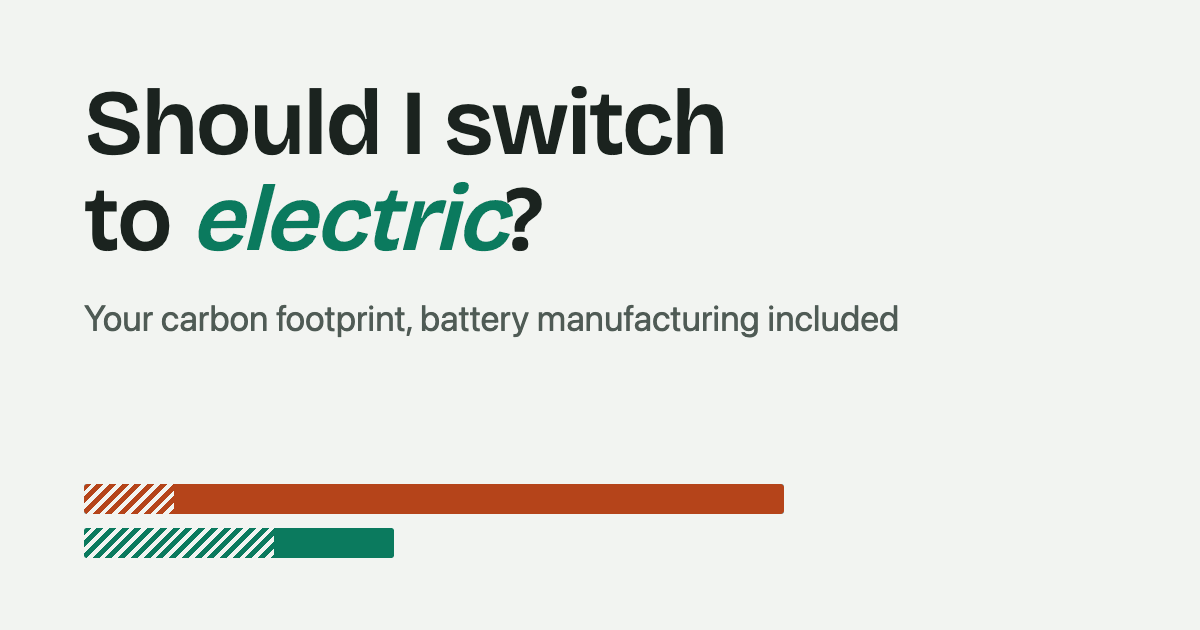
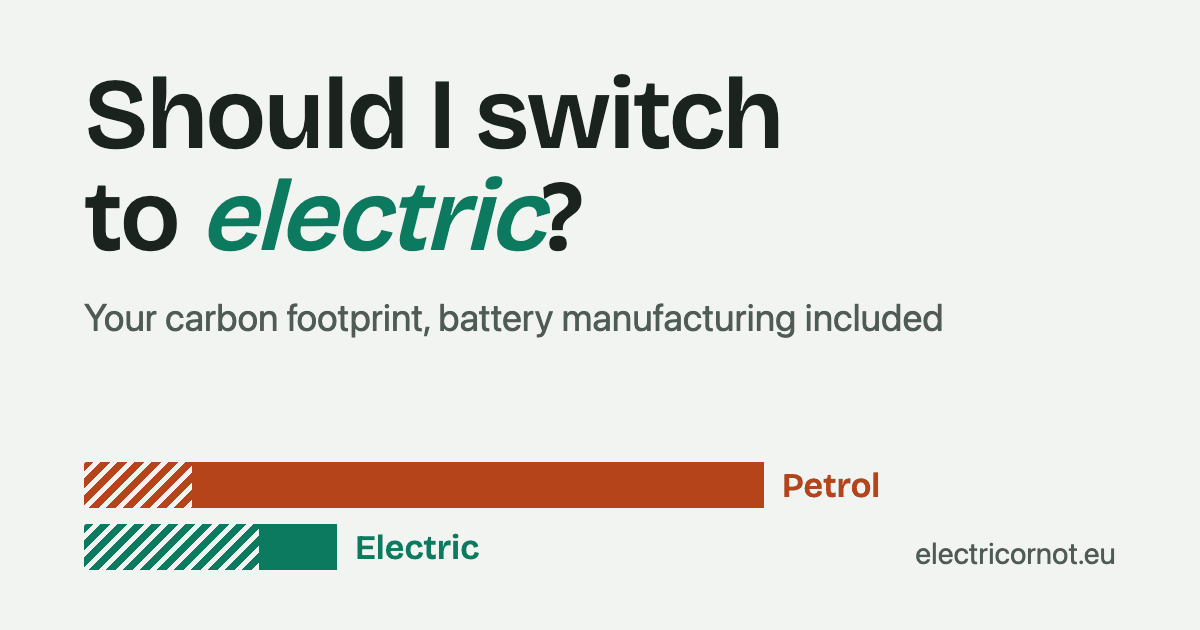
feat: aperçus de partage lisibles en vignette (barres étiquetées, domaine) ; renvois Hn et [n] cliquables sur la page Questions

diff --git a/src/App.jsx b/src/App.jsx
@@ -1142,16 +1142,23 @@ function PageApropos() {
   );
 }
 
+// « [8, 14] » → « [8, 14] » dont chaque numéro mène à sa source sur la page Méthode (/fr/methode/#src-8)
+function lierSources(texte, nomSource, lang) {
+  return texte.split(/\[([\d, ]+)\]/).map((morceau, i) => i % 2 === 0 ? morceau : ["[", ...morceau.split(", ").flatMap((n, j) => [
+    j > 0 && ", ", <a key={n} href={`${chemin(lang, "methode")}#src-${n}`} aria-label={`${nomSource} ${n}`}>{n}</a>]), "]"]);
+}
+
 // Questions-réponses (ticket 05) : chiffres recalculés par le modèle dans src/reponses.test.js ;
-// renvois Hn [n] en texte, comme la page Méthode (pas de liens : DOM minimal)
+// renvois Hn et [n] en liens vers la page Méthode (≈ 30 liens : la page reste en EcoIndex A)
 function PageQuestions() {
-  const { s } = useT();
+  const { s, lang } = useT();
+  const lier = (r) => lierSources(r, s.source, lang).flatMap((m) => typeof m === "string" ? lierHyp(m, s.prefixeHyp, lang) : [m]);
   return (
     <article className="carte lecture">
       <RetourOutil />
       <h2>{s.pages.questions}</h2>
       <p className="lede-carte">{s.questionsIntro}</p>
-      {s.questions.flatMap(([q, r]) => [<h3 key={q}>{q}</h3>, <p key={r}>{r}</p>])}
+      {s.questions.flatMap(([q, r]) => [<h3 key={q}>{q}</h3>, <p key={r}>{lier(r)}</p>])}
     </article>
   );
 }

diff --git a/src/i18n/nl.jsx b/src/i18n/nl.jsx
@@ -293,6 +293,7 @@ export default {
     { t: "Budget in gebruik", d: "Jaarlijkse kosten voor energie (huishoudprijzen per land, thuis opladen) en onderhoud (€ 0,04/km voor een nieuwe elektrische auto, ADAC-forfaits die de ICCT in 2023 overnam; € 0,07/km voor een oudere benzine- of dieselauto, herstellingen inbegrepen). De aankoopprijs van het voertuig, verzekering, belastingen en financiering worden niet meegeteld: die hangen af van de markt in elk land en van elke aankoop. De standaardprijzen vermelden hun datum en zijn aanpasbaar. Onderhoud: € 0,07/km is een voorzichtige keuze, onder het Franse gemiddelde van ongeveer € 0,09 tot € 0,11/km (uitgaven van huishoudens aan onderhoud, herstellingen en onderdelen, 41,4 miljard euro in 2024, gedeeld door de 440 miljard gereden km). Bij gelijke leeftijd kost een elektrische auto ongeveer 15% minder onderhoud (ICCT 2023: € 0,046 tegenover € 0,054/km): het getoonde verschil komt vooral van de leeftijd, en een oudere elektrische auto kost meer (banden, remmen, 12V-batterij)." },
   ],
   sourcesTitre: "Bronnen en referenties",
+  source: "Bron", // libellé accessible d'un renvoi [n] (page Questions)
   methodeMaj: (date) => `Methode bijgewerkt op ${date}.`,
   sourcesNotes: {
     2: "19,6 gCO₂e/kWh aan directe uitstoot van de productie (2025).",

diff --git a/src/i18n/es.jsx b/src/i18n/es.jsx
@@ -294,6 +294,7 @@ export default {
     { t: "Presupuesto de uso", d: "Coste anual de energía (precios domésticos por país, carga en casa) y de mantenimiento (0,04 €/km para un eléctrico nuevo, tarifas del ADAC recogidas por el ICCT en 2023; 0,07 €/km para un coche de combustión antiguo, reparaciones incluidas). No se cuentan el precio de compra del vehículo, el seguro, los impuestos ni la financiación: dependen del mercado de cada país y de cada compra. Precios por defecto fechados y modificables. Mantenimiento: 0,07 €/km es una elección prudente, por debajo de la media francesa de unos 0,09 a 0,11 €/km (gasto de los hogares en mantenimiento, reparaciones y piezas, 41.400 millones de euros en 2024, dividido entre los 440.000 millones de km recorridos). A igual edad, un eléctrico cuesta alrededor de un 15 % menos de mantener (ICCT 2023: 0,046 frente a 0,054 €/km): la diferencia mostrada se debe sobre todo a la edad, y un eléctrico más antiguo cuesta más (neumáticos, frenos, batería de 12 V)." },
   ],
   sourcesTitre: "Fuentes y referencias",
+  source: "Fuente", // libellé accessible d'un renvoi [n] (page Questions)
   methodeMaj: (date) => `Método actualizado el ${date}.`,
   sourcesNotes: {
     2: "19,6 gCO₂e/kWh en emisiones directas de producción (2025).",

diff --git a/src/i18n/fr.jsx b/src/i18n/fr.jsx
@@ -295,6 +295,7 @@ export default {
     { t: "Budget à l'usage", d: "Coût annuel d'énergie (prix domestiques par pays, recharge à domicile) et d'entretien (0,04 €/km pour une électrique neuve, forfaits ADAC repris par l'ICCT en 2023 ; 0,07 €/km pour une thermique ancienne, réparations comprises). Le prix d'achat du véhicule, l'assurance, les taxes et le financement ne sont pas comptés : ils dépendent du marché de chaque pays et de chaque achat. Prix par défaut datés et modifiables. Entretien : 0,07 €/km est un choix prudent, sous la moyenne française d'environ 0,09 à 0,11 €/km (dépenses des ménages en entretien, réparation et pièces, 41,4 milliards d'euros en 2024, rapportées aux 440 milliards de km parcourus). À âge égal, une électrique coûte environ 15 % de moins à entretenir (ICCT 2023 : 0,046 contre 0,054 €/km) : l'écart affiché vient surtout de l'âge, et une électrique plus âgée coûte davantage (pneus, freins, batterie 12 V)." },
   ],
   sourcesTitre: "Sources et références",
+  source: "Source", // libellé accessible d'un renvoi [n] (page Questions)
   methodeMaj: (date) => `Méthode mise à jour le ${date}.`,
   sourcesNotes: {
     2: "19,6 gCO₂e/kWh en émissions directes de production (2025).",

diff --git a/src/i18n/it.jsx b/src/i18n/it.jsx
@@ -297,6 +297,7 @@ export default {
     { t: "Budget d'uso", d: "Costo annuo dell'energia (prezzi domestici per paese, ricarica a casa) e della manutenzione (0,04 €/km per un'elettrica nuova, forfait ADAC ripresi dall'ICCT nel 2023; 0,07 €/km per un'auto termica datata, riparazioni comprese). Il prezzo d'acquisto del veicolo, l'assicurazione, le tasse e il finanziamento non sono contati: dipendono dal mercato di ogni paese e da ogni acquisto. Prezzi di default datati e modificabili. Manutenzione: 0,07 €/km è una scelta prudente, sotto la media francese di circa 0,09-0,11 €/km (spesa delle famiglie per manutenzione, riparazioni e ricambi, 41,4 miliardi di euro nel 2024, divisa per i 440 miliardi di km percorsi). A parità di età, un'elettrica costa circa il 15% in meno di manutenzione (ICCT 2023: 0,046 contro 0,054 €/km): il divario mostrato dipende soprattutto dall'età, e un'elettrica più vecchia costa di più (pneumatici, freni, batteria a 12 V)." },
   ],
   sourcesTitre: "Fonti e riferimenti",
+  source: "Fonte", // libellé accessible d'un renvoi [n] (page Questions)
   methodeMaj: (date) => `Metodo aggiornato il ${date}.`,
   sourcesNotes: {
     2: "19,6 gCO₂e/kWh di emissioni dirette di produzione (2025).",

diff --git a/src/i18n/en.jsx b/src/i18n/en.jsx
@@ -293,6 +293,7 @@ export default {
     { t: "Running-cost budget", d: "Yearly cost of energy (household prices per country, home charging) and maintenance (€0.04/km for a new electric car, ADAC flat rates used by the ICCT in 2023; €0.07/km for an older combustion car, repairs included). The vehicle's purchase price, insurance, taxes and financing are not counted: they depend on each country's market and each purchase. Default prices dated and editable. Maintenance: €0.07/km is a cautious choice, below the French average of about €0.09 to €0.11/km (household spending on maintenance, repairs and parts, €41.4 billion in 2024, divided by the 440 billion km driven). At equal age, an electric car costs about 15% less to maintain (ICCT 2023: €0.046 against €0.054/km): the gap shown comes mostly from age, and an older electric car costs more (tyres, brakes, 12 V battery)." },
   ],
   sourcesTitre: "Sources and references",
+  source: "Source", // libellé accessible d'un renvoi [n] (page Questions)
   methodeMaj: (date) => `Method updated on ${date}.`,
   sourcesNotes: {
     2: "19.6 gCO₂e/kWh direct generation emissions (2025).",

diff --git a/CHANGELOG.md b/CHANGELOG.md
@@ -14,6 +14,8 @@ Notable changes to « Dois-je passer à l'électrique ? ». Format inspired by [
 - **Search engines:** Google Search Console verified for `electricornot.eu` (DNS TXT, sitemap submitted); IndexNow active (`INDEXNOW_KEY` set, sitemap URLs sent after each deploy).
 
 ### Changed
+- **Share preview images reworked** (5 languages, `scripts/apercus.mjs`): bars labelled (« Essence », « Électrique ») and drawn in the model's real proportions, `electricornot.eu` added, larger title, so the image stays legible as a LinkedIn thumbnail. Checked on opengraph.xyz (Facebook, LinkedIn, WhatsApp).
+- **Questions page: references are links** (5 languages): each Hn goes to its hypothesis and each source number in « [8, 14] » to its source on the Méthode page (`aria-label` « Source 8 »; new key `source`). Official EcoIndex before: Questions 95 (A, 52 nodes), Méthode 92 (A, 98 nodes); Questions estimated at 93 (A) with the ~30 links.
 - **H14 maintenance cost sourced** (5 languages): €0.07/km for an older combustion car is now presented as a cautious value below the French average of about €0.09–0.11/km (household spending €41.4 bn in 2024, CCFA from INSEE, over 440 bn km, SDES); €0.04/km applies to a new EV; at equal age an EV costs about 15 % less to maintain (ICCT 2023), so the gap shown mostly reflects age. Sources [24], [25] added. Values unchanged.
 - **Model values checked against primary sources** (12/10/2026, `docs/research/2026-10-verification-hypotheses.md`): EV consumption +5 % (compact 20.2 kWh/100 km at the plug, ICCT 2025); LFP battery 65 → 69 kgCO₂e/kWh and « NMC · Asie » renamed « NMC · Chine » (GREET via ICCT 2025); plug-in hybrid default electric share 50 → 30 % (OBFCM meters measure 17–26 %, ICCT 2026). Belgian grid kept at 150 g (Ember 2025), range 131–182 g stated in H5.
 - **Questions page, more rigorous** (data-scientist review, 5 languages): Belgian break-even stated as a range (about 25,000 to 30,000 km, city car to SUV, grid 131–182 g; more against a hybrid); Q1 gives 60 to 64 %; plug-in hybrid answer uses measured shares; Germany and Poland with frozen and decarbonising grid; used-car answer notes the allocation convention. Figures recomputed by `reponses.test.js`. EU intro now « 50 à 60 % ».
